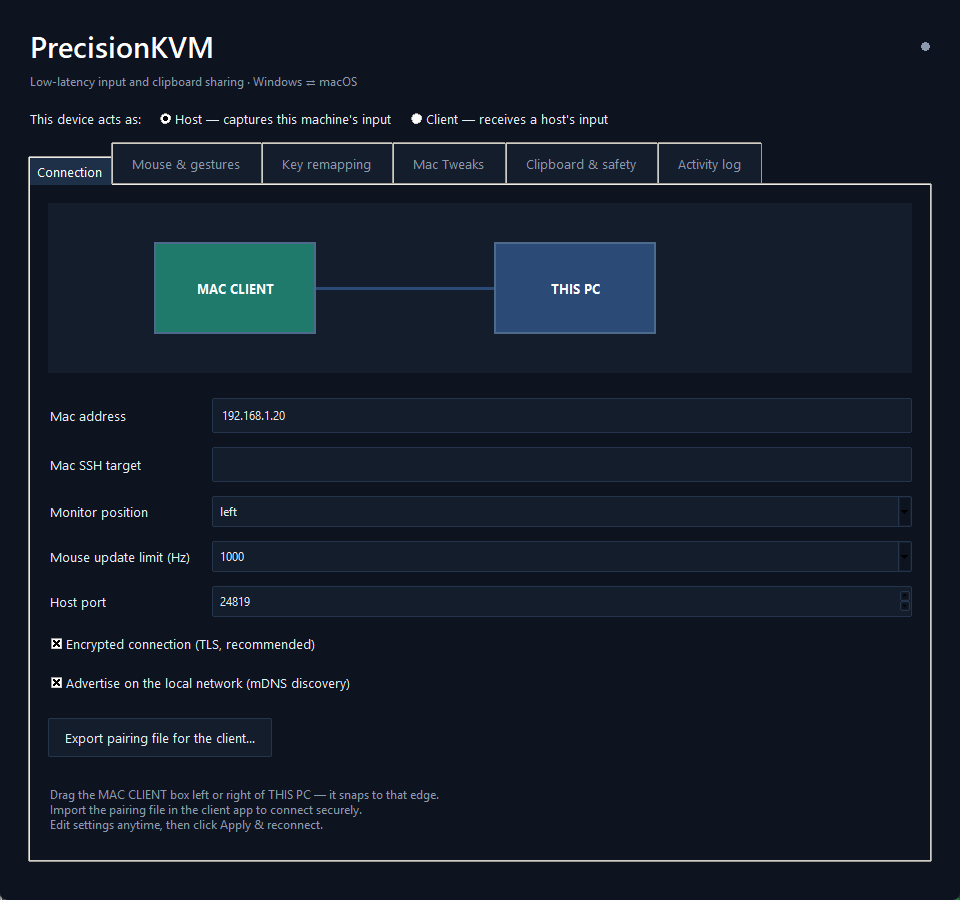
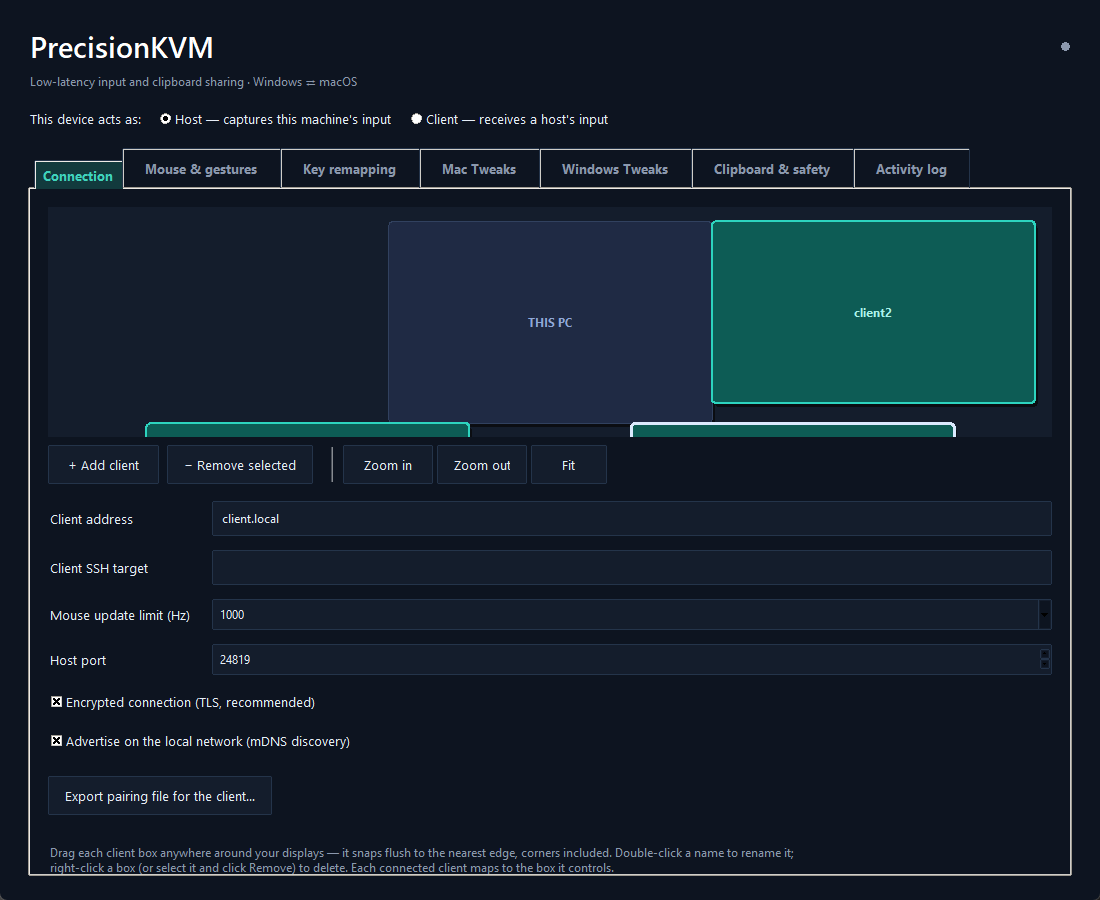
Docs: fresh screenshots, release badges, multi-client features
Generated with [Devin](https://devin.ai)

Changed region(s): [[0.0, 0.1244, 1.0, 0.9956], [0.0312, 0.0311, 0.375, 0.0933], [0.0625, 0.4356, 0.125, 0.4667]]

diff --git a/README.md b/README.md
@@ -2,14 +2,18 @@
 
 **A software KVM that feels like a wire.**
 
+[![Release](https://img.shields.io/github/v/release/shahriar0247/precision-kvm?sort=semver&label=release&color=40cdb6)](https://github.com/shahriar0247/precision-kvm/releases)
+[![Build](https://github.com/shahriar0247/precision-kvm/actions/workflows/release.yml/badge.svg)](https://github.com/shahriar0247/precision-kvm/actions/workflows/release.yml)
+[![Platforms](https://img.shields.io/badge/platforms-Windows%20x64%20·%20ARM64%20·%20macOS%20arm64%20·%20x64-365376)](https://github.com/shahriar0247/precision-kvm/releases)
 [![MIT license](https://img.shields.io/badge/license-MIT-40cdb6)](LICENSE)
-[![Source version](https://img.shields.io/badge/source-0.6.0-365376)](CHANGELOG.md)
 
 Software KVMs feel laggy because they buffer — events get batched into queues, polled on timers, or relayed through a cloud. PrecisionKVM does none of that. Raw hardware deltas go straight from kernel hooks onto a dedicated LAN socket, the client injects them immediately, and clipboard data rides its own connection so a 30 MB screenshot never delays a keypress.
 
 Median round-trip on gigabit Ethernet: **~0.9 ms at up to 1000 mouse updates per second** — indistinguishable from plugging the mouse in.
 
-![Control panel](docs/assets/panel.png)
+![Control panel — real monitor topology with multiple clients](docs/assets/panel.png)
+
+*The layout canvas maps your real displays — drag clients to any edge or corner, rename by double-clicking, zoom and pan the map.*
 
 ![Latency comparison](docs/assets/latency.svg)
 
@@ -45,9 +49,12 @@ Either machine can host or client — flip the role picker at the top of the pan
 - **Any-key remapping** — named keys, scan codes, media keys, per-modifier; a full keymap table.
 - **Gestures** — desktop-switch shortcuts bridge to Mission Control; experimental 4-finger swipe recognition.
 - **Live latency graph** — the panel shows the actual round-trip time while you share.
-- **Multi-client, real topology** — the canvas maps your actual displays; drop clients on any edge or corner and cross into the one that sits there.
+- **Multi-client, real topology** — the canvas maps your actual displays; drop clients on any edge or corner and cross into the one that sits there. Zoom, pan, rename inline, add as many as you like.
+- **Per-OS client tweaks** — Mac clients get smooth scrolling, Home/End and word-navigation; Windows clients can drop "Enhance pointer precision" while controlled and lock when you cross back.
 - **Real security** — pairing token + pinned certificate over TLS; toggle off only on a trusted wire. mDNS discovery, configurable port.
 - **Tray + login startup** — close the window, it keeps sharing.
+
+![Windows client tweaks](docs/assets/windows-tweaks.png)
 
 It does not stream video and doesn't replace a hardware KVM for BIOS or login screens.
 
